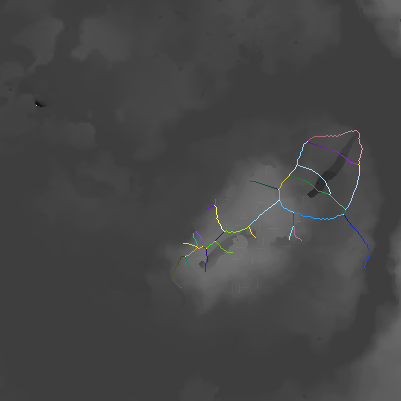
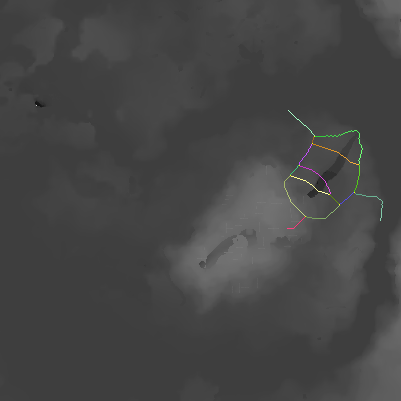
Change root file path and added rectangle 2D to 3D

diff --git a/world_maker/data_analysis.py b/world_maker/data_analysis.py
@@ -4,15 +4,16 @@ import numpy as np
 from scipy import ndimage
 from Skeleton import Skeleton
 from typing import Union
+from random import randint
 import cv2
 
 
 def get_data(world: World):
     print("[Data Analysis] Generating data...")
     heightmap, watermap, treemap = world.getData()
-    heightmap.save('./data/heightmap.png')
-    watermap.save('./data/watermap.png')
-    treemap.save('./data/treemap.png')
+    heightmap.save('./world_maker/data/heightmap.png')
+    watermap.save('./world_maker/data/watermap.png')
+    treemap.save('./world_maker/data/treemap.png')
     print("[Data Analysis] Data generated.")
     return heightmap, watermap, treemap
 
@@ -181,9 +182,9 @@ def filter_remove_details(image: Union[str, Image], n: int = 20) -> Image:
 
 def highway_map() -> Image:
     print("[Data Analysis] Generating highway map...")
-    smooth_sobel = filter_smooth("./data/sobelmap.png", 1)
+    smooth_sobel = filter_smooth("./world_maker/data/sobelmap.png", 1)
     negative_smooth_sobel = filter_negative(smooth_sobel)
-    negative_smooth_sobel_water = subtract_map(negative_smooth_sobel, './data/watermap.png')
+    negative_smooth_sobel_water = subtract_map(negative_smooth_sobel, './world_maker/data/watermap.png')
     array_sobel_water = np.array(negative_smooth_sobel_water)
     array_sobel_water = ndimage.binary_erosion(array_sobel_water, iterations=12)
     array_sobel_water = ndimage.binary_dilation(array_sobel_water, iterations=5)
@@ -192,7 +193,7 @@ def highway_map() -> Image:
     array_sobel_water = filter_smooth_array(array_sobel_water, 6)
     image = Image.fromarray(array_sobel_water)
     image_no_details = filter_remove_details(image, 15)
-    image_no_details.save('./data/highwaymap.png')
+    image_no_details.save('./world_maker/data/highwaymap.png')
     print("[Data Analysis] Highway map generated.")
     return image_no_details
 
@@ -210,45 +211,45 @@ def create_volume(surface: np.ndarray, heightmap: np.ndarray, make_it_flat: bool
 
 def convert_2D_to_3D(image: Union[str, Image], make_it_flat: bool = False) -> np.ndarray:
     image = handle_import_image(image)
-    heightmap = Image.open('./data/heightmap.png').convert('L')
+    heightmap = Image.open('./world_maker/data/heightmap.png').convert('L')
     heightmap = np.array(heightmap)
     surface = np.array(image)
     volume = create_volume(surface, heightmap, make_it_flat)
     return volume
 
 
-def skeleton_highway_map(image: Union[str, Image] = './data/highwaymap.png') -> Skeleton:
+def skeleton_highway_map(image: Union[str, Image] = './world_maker/data/highwaymap.png') -> Skeleton:
     image_array = convert_2D_to_3D(image, True)
     skeleton = Skeleton(image_array)
     skeleton.parse_graph(True)
     heightmap_skeleton = skeleton.map()
-    heightmap_skeleton.save('./data/skeleton_highway.png')
+    heightmap_skeleton.save('./world_maker/data/skeleton_highway.png')
     skeleton.road_area('skeleton_highway_area.png', 10)
     return skeleton
 
 
-def skeleton_mountain_map(image: Union[str, Image] = './data/mountain_map.png') -> Skeleton:
+def skeleton_mountain_map(image: Union[str, Image] = './world_maker/data/mountain_map.png') -> Skeleton:
     image_array = convert_2D_to_3D(image, True)
     skeleton = Skeleton(image_array)
     skeleton.parse_graph()
     heightmap_skeleton = skeleton.map()
-    heightmap_skeleton.save('./data/skeleton_mountain.png')
+    heightmap_skeleton.save('./world_maker/data/skeleton_mountain.png')
     skeleton.road_area('skeleton_mountain_area.png',3)
     return skeleton
 
 
 def smooth_sobel_water() -> Image:
-    watermap = handle_import_image("./data/watermap.png")
+    watermap = handle_import_image("./world_maker/data/watermap.png")
     watermap = filter_negative(filter_remove_details(filter_negative(watermap), 5))
-    sobel = handle_import_image("./data/sobelmap.png")
+    sobel = handle_import_image("./world_maker/data/sobelmap.png")
     sobel = filter_remove_details(filter_smooth(sobel, 1), 2)
     group = group_map(watermap, sobel)
     group = filter_negative(group)
-    group.save('./data/smooth_sobel_watermap.png')
+    group.save('./world_maker/data/smooth_sobel_watermap.png')
     return group
 
 
-def detect_mountain(image: Union[str, Image] = './data/sobelmap.png') -> Image:
+def detect_mountain(image: Union[str, Image] = './world_maker/data/sobelmap.png') -> Image:
     image = handle_import_image(image)
     sobel = np.array(image)
     pixels = sobel.reshape((-1, 1))
@@ -272,3 +273,20 @@ def detect_mountain(image: Union[str, Image] = './data/sobelmap.png') -> Image:
 
     print(f"[Data Analysis] The center of the mountain is at ({cX}, {cY})")
     return (cX, cY)
+
+
+def rectangle_2D_to_3D(rectangle: list[tuple[tuple[int, int],tuple[int, int]]],
+                       height_min:int = 6, height_max:int = 10) \
+        -> list[tuple[tuple[int, int, int], tuple[int, int, int]]]:
+    image = handle_import_image('./world_maker/data/heightmap.png')
+    new_rectangle = []
+    for rect in rectangle:
+        start, end = rect
+        avg_height = 0
+        for x in range(start[0], end[0]):
+            for y in range(start[1], end[1]):
+                avg_height += np.array(image.getpixel((x, y)))
+        avg_height = int(avg_height / ((end[0] - start[0]) * (end[1] - start[1])))
+        new_rectangle.append(((start[0], avg_height, start[1]), (end[0], avg_height + randint(height_min, height_max), end[1])))
+    return new_rectangle
+

diff --git a/world_maker/City.py b/world_maker/City.py
@@ -1,8 +1,8 @@
 from District import District, Road
 from Position import Position
 from PIL import Image
-import random
-from data_analysis import handle_import_image
+from random import randint
+from data_analysis import handle_import_image, detect_mountain
 from typing import Union
 import numpy as np
 
@@ -28,8 +28,8 @@ class City:
         """
         Initialize the maps of the city. It reads the heightmap and watermap images and converts them into 2D lists.
         """
-        heightmap = Image.open('./data/heightmap.png').convert('L')
-        watermap = Image.open('./data/watermap.png').convert('L')
+        heightmap = Image.open('./world_maker/data/heightmap.png').convert('L')
+        watermap = Image.open('./world_maker/data/watermap.png').convert('L')
         width, height = heightmap.size
         self.map_data = [[-1 if watermap.getpixel((x, y)) > 0 else 0 for x in range(width)] for y in range(height)]
         self.height_map = [[heightmap.getpixel((x, y)) for x in range(width)] for y in range(height)]
@@ -105,7 +105,7 @@ class City:
         """
         width, height = len(self.map_data[0]), len(self.map_data)
         img = Image.new('RGB', (width, height))
-        colors = {id_district: (random.randint(0, 255), random.randint(0, 255), random.randint(0, 255))
+        colors = {id_district: (randint(0, 255), randint(0, 255), randint(0, 255))
                   for id_district in range(1, len(self.districts) + 1)}
 
         for y in range(height):
@@ -115,19 +115,18 @@ class City:
                 else:
                     img.putpixel((x, y), colors[self.map_data[y][x]])
 
-        img.save('./data/district.png')
+        img.save('./world_maker/data/district.png')
         print("[City] District map created.")
 
-    def draw_roads(self, image: Union[str, Image], size: int = 1) -> Image:
+    def draw_roads(self, size_road: int = 1) -> Image:
         """
         Draw the roads of the city on the image.
 
         :param size:
-        :param image: The image to draw the roads on.
         """
-        image = handle_import_image(image)
+        image = Image.new('RGB', Image.open('./world_maker/data/heightmap.png').size)
         for district in self.districts:
-            district.draw_roads(image, size)
+            district.draw_roads(image, size_road)
         return image
 
     def district_generate_road(self) -> list[Road]:
@@ -138,8 +137,9 @@ class City:
         """
         roads = []
         for district in self.districts:
-            district.generate_roads(self.map_data)
-            roads.extend(district.roads)
+            if district.type != "mountain":
+                district.generate_roads(self.map_data)
+                roads.extend(district.roads)
         return roads
 
     def point_in_which_district(self, point: Union[Position, tuple[int, int]]) -> int:
@@ -164,16 +164,44 @@ class City:
         array = np.array([[True if self.map_data[y][x] in district_id else False for x in range(len(self.map_data[0]))]
                           for y in range(len(self.map_data))])
         image = Image.fromarray(array)
-        image.save('./data/mountain_map.png')
+        image.save('./world_maker/data/mountain_map.png')
         return image
+
+    def generate_district(self):
+        image = handle_import_image('./world_maker/data/smooth_sobel_watermap.png').convert('L')
+        array = np.array(image)
+        mountain_coo = detect_mountain()
+        self.add_district(Position(mountain_coo[0], mountain_coo[1]), "mountain")
+        print("[City] District added.")
+        remove_circle_data(array, mountain_coo)
+        area = get_area_array(array)
+        sizeX, sizeY = len(array[0]), len(array)
+        while area > sizeX * sizeY * 0.1:
+            x, y = randint(0, sizeX - 1), randint(0, sizeY - 1)
+            if array[y][x]:
+                self.add_district(Position(x, y))
+                remove_circle_data(array, (x, y))
+                area = get_area_array(array)
+                print("[City] District added.")
+
+
+def remove_circle_data(array, center, radius=100):
+    y_indices, x_indices = np.indices(array.shape)
+    dist_sq = (y_indices - center[1]) ** 2 + (x_indices - center[0]) ** 2
+    mask = dist_sq <= radius ** 2
+    array[mask] = False
+
+
+def get_area_array(array) -> int:
+    return np.sum(array)
 
 
 if __name__ == '__main__':
     city = City()
     for i in range(10):
-        city.add_district(Position(random.randint(0, 400), random.randint(0, 400)))
+        city.add_district(Position(randint(0, 400), randint(0, 400)))
     city.loop_expend_district()
     city.district_draw_map()
     city.district_generate_road()
-    image = city.draw_roads(Image.new('RGB', (401, 401)),4)
-    image.save('./data/roadmap.png')
+    image = city.draw_roads(Image.new('RGB', (401, 401)), 4)
+    image.save('./world_maker/data/roadmap.png')

diff --git a/world_maker/world_maker.py b/world_maker/world_maker.py
@@ -1,6 +1,6 @@
 import World
 from PIL import Image
-from data_analysis import get_data,filter_negative, skeleton_mountain_map, highway_map, filter_sobel, skeleton_highway_map, \
+from data_analysis import get_data,filter_negative, rectangle_2D_to_3D, skeleton_mountain_map, highway_map, filter_sobel, skeleton_highway_map, \
     smooth_sobel_water, subtract_map, detect_mountain
 from City import City
 from Position import Position
@@ -10,26 +10,24 @@ from pack_rectangle import generate_building
 if __name__ == '__main__':
     #world = World.World()
     #heightmap, watermap, treemap = get_data(world)
-    #filter_sobel("./data/heightmap.png").save('./data/sobelmap.png')
+    #filter_sobel("./world_maker/data/heightmap.png").save('./world_maker/data/sobelmap.png')
     smooth_sobel_water = smooth_sobel_water()
     skeleton_highway_map(highway_map())
     city = City()
-    mountain_coo = detect_mountain()
-    city.add_district(Position(mountain_coo[0], mountain_coo[1]), "mountain")
-    city.add_district(Position(200, 200), "zdz")
-    city.add_district(Position(300, 300), "cool")
+    city.generate_district()
     city.loop_expend_district()
     city.district_draw_map()
     city.district_generate_road()
     image_mountain_map = city.get_district_mountain_map()
-    road = city.draw_roads(Image.new('RGB', (401, 401)), 4)
-    road.save('./data/roadmap.png')
-    subtract_map(smooth_sobel_water, road).save('./data/roadmap2.png')
-    subtract_map('./data/roadmap2.png', './data/skeleton_highway_area.png').save('./data/roadmap2.png')
-    subtract_map('./data/roadmap2.png', './data/mountain_map.png').save('./data/roadmap2.png')
-    generate_building('./data/roadmap2.png')
+    road = city.draw_roads(4)
+    road.save('./world_maker/data/roadmap.png')
+    subtract_map(smooth_sobel_water, road).save('./world_maker/data/city_map.png')
+    subtract_map('./world_maker/data/city_map.png', './world_maker/data/skeleton_highway_area.png').save('./world_maker/data/city_map.png')
+    subtract_map('./world_maker/data/city_map.png', './world_maker/data/mountain_map.png').save('./world_maker/data/city_map.png')
+    rectangle_building = generate_building('./world_maker/data/city_map.png')
+    rectangle_building = rectangle_2D_to_3D(rectangle_building)
 
     skeleton_mountain_map(image_mountain_map)
-    subtract_map('./data/mountain_map.png','./data/skeleton_mountain_area.png').save('./data/mountain_map.png')
-    subtract_map(smooth_sobel_water, filter_negative('./data/mountain_map.png')).save('./data/mountain_map.png')
-    generate_building('./data/mountain_map.png')
+    subtract_map('./world_maker/data/mountain_map.png', './world_maker/data/skeleton_mountain_area.png').save('./world_maker/data/mountain_map.png')
+    subtract_map(smooth_sobel_water, filter_negative('./world_maker/data/mountain_map.png')).save('./world_maker/data/mountain_map.png')
+    rectangle_mountain = generate_building('./world_maker/data/mountain_map.png')

diff --git a/world_maker/pack_rectangle.py b/world_maker/pack_rectangle.py
@@ -2,6 +2,8 @@ from PIL import Image
 import numpy as np
 from typing import Union
 from data_analysis import handle_import_image
+from random import randint
+
 
 class Rectangle:
     def __init__(self, width, height):
@@ -27,7 +29,7 @@ class Bin:
                         best_spot_empty_area = empty_area
 
         if best_spot is not None:
-            self.rectangles.append((best_spot, (best_spot[0]+rectangle.width, best_spot[1]+rectangle.height)))
+            self.rectangles.append((best_spot, (best_spot[0] + rectangle.width, best_spot[1] + rectangle.height)))
             self.update_grid(rectangle, *best_spot)
             return True
 
@@ -72,19 +74,16 @@ def pack_rectangles(rectangles, grid):
     return True
 
 
-import random
-
-
-def generate_rectangle(max_width:int = 25):
-    width = random.randint(10, max_width)
-    height = random.randint(10, max_width)
+def generate_rectangle(min_width: int = 10, max_width: int = 25):
+    width = randint(min_width, max_width)
+    height = randint(min_width, max_width)
     return Rectangle(width, height)
 
 
-def pack_rectangles(grid):
+def pack_rectangles(grid, min_width: int = 10, max_width: int = 25):
     bin = Bin(grid)
     while True:
-        rectangle = generate_rectangle()
+        rectangle = generate_rectangle(min_width, max_width)
         if not bin.place_rectangle(rectangle):
             break
         print(len(bin.rectangles))
@@ -101,12 +100,13 @@ def draw_rectangles(rectangles, grid):
     return image
 
 
-def generate_building(image: Union[str, Image] = './data/roadmap2.png'):
+def generate_building(image: Union[str, Image], min_width: int = 10, max_width: int = 25):
     image = handle_import_image(image).convert('L')
     grid = np.array(image)
-    rectangles = pack_rectangles(grid)
-    draw_rectangles(rectangles, grid).save('./data/building.png')
+    rectangles = pack_rectangles(grid, min_width, max_width)
+    draw_rectangles(rectangles, grid).save('./world_maker/data/building.png')
     return rectangles
+
 
 if __name__ == '__main__':
     generate_building()

diff --git a/world_maker/Skeleton.py b/world_maker/Skeleton.py
@@ -158,7 +158,7 @@ class Skeleton:
         # xzDistance = (max(buildRect.end[0], buildRect.begin[0]) - min(buildRect.end[0], buildRect.begin[0]),
         #              max(buildRect.end[1], buildRect.begin[1]) - min(buildRect.end[1], buildRect.begin[1]))
 
-        heightmap = Image.open("data/heightmap.png").convert('RGB')
+        heightmap = Image.open("./world_maker/data/heightmap.png").convert('RGB')
         # roadsArea = Image.new("L", xzDistance, 0)
         # width, height = heightmap.size
 
@@ -216,7 +216,7 @@ class Skeleton:
 
     def road_area(self, name: str, radius: int = 10) -> Image:
         print("[Skeleton] Start mapping the road area...")
-        heightmap = Image.open("data/heightmap.png")
+        heightmap = Image.open("./world_maker/data/heightmap.png")
         width, height = heightmap.size
         road_area_map = Image.new("L", (width, height), 0)
         road_area_map_draw = ImageDraw.Draw(road_area_map)
@@ -236,7 +236,7 @@ class Skeleton:
             circle_coords = (z - radius, x - radius, z + radius, x + radius)
             road_area_map_draw.ellipse(circle_coords, fill=255)
 
-        road_area_map.save("data/"+name)
+        road_area_map.save("./world_maker/data/"+name)
 
         print("[Skeleton] Road area mapping completed.")
         return road_area_map
